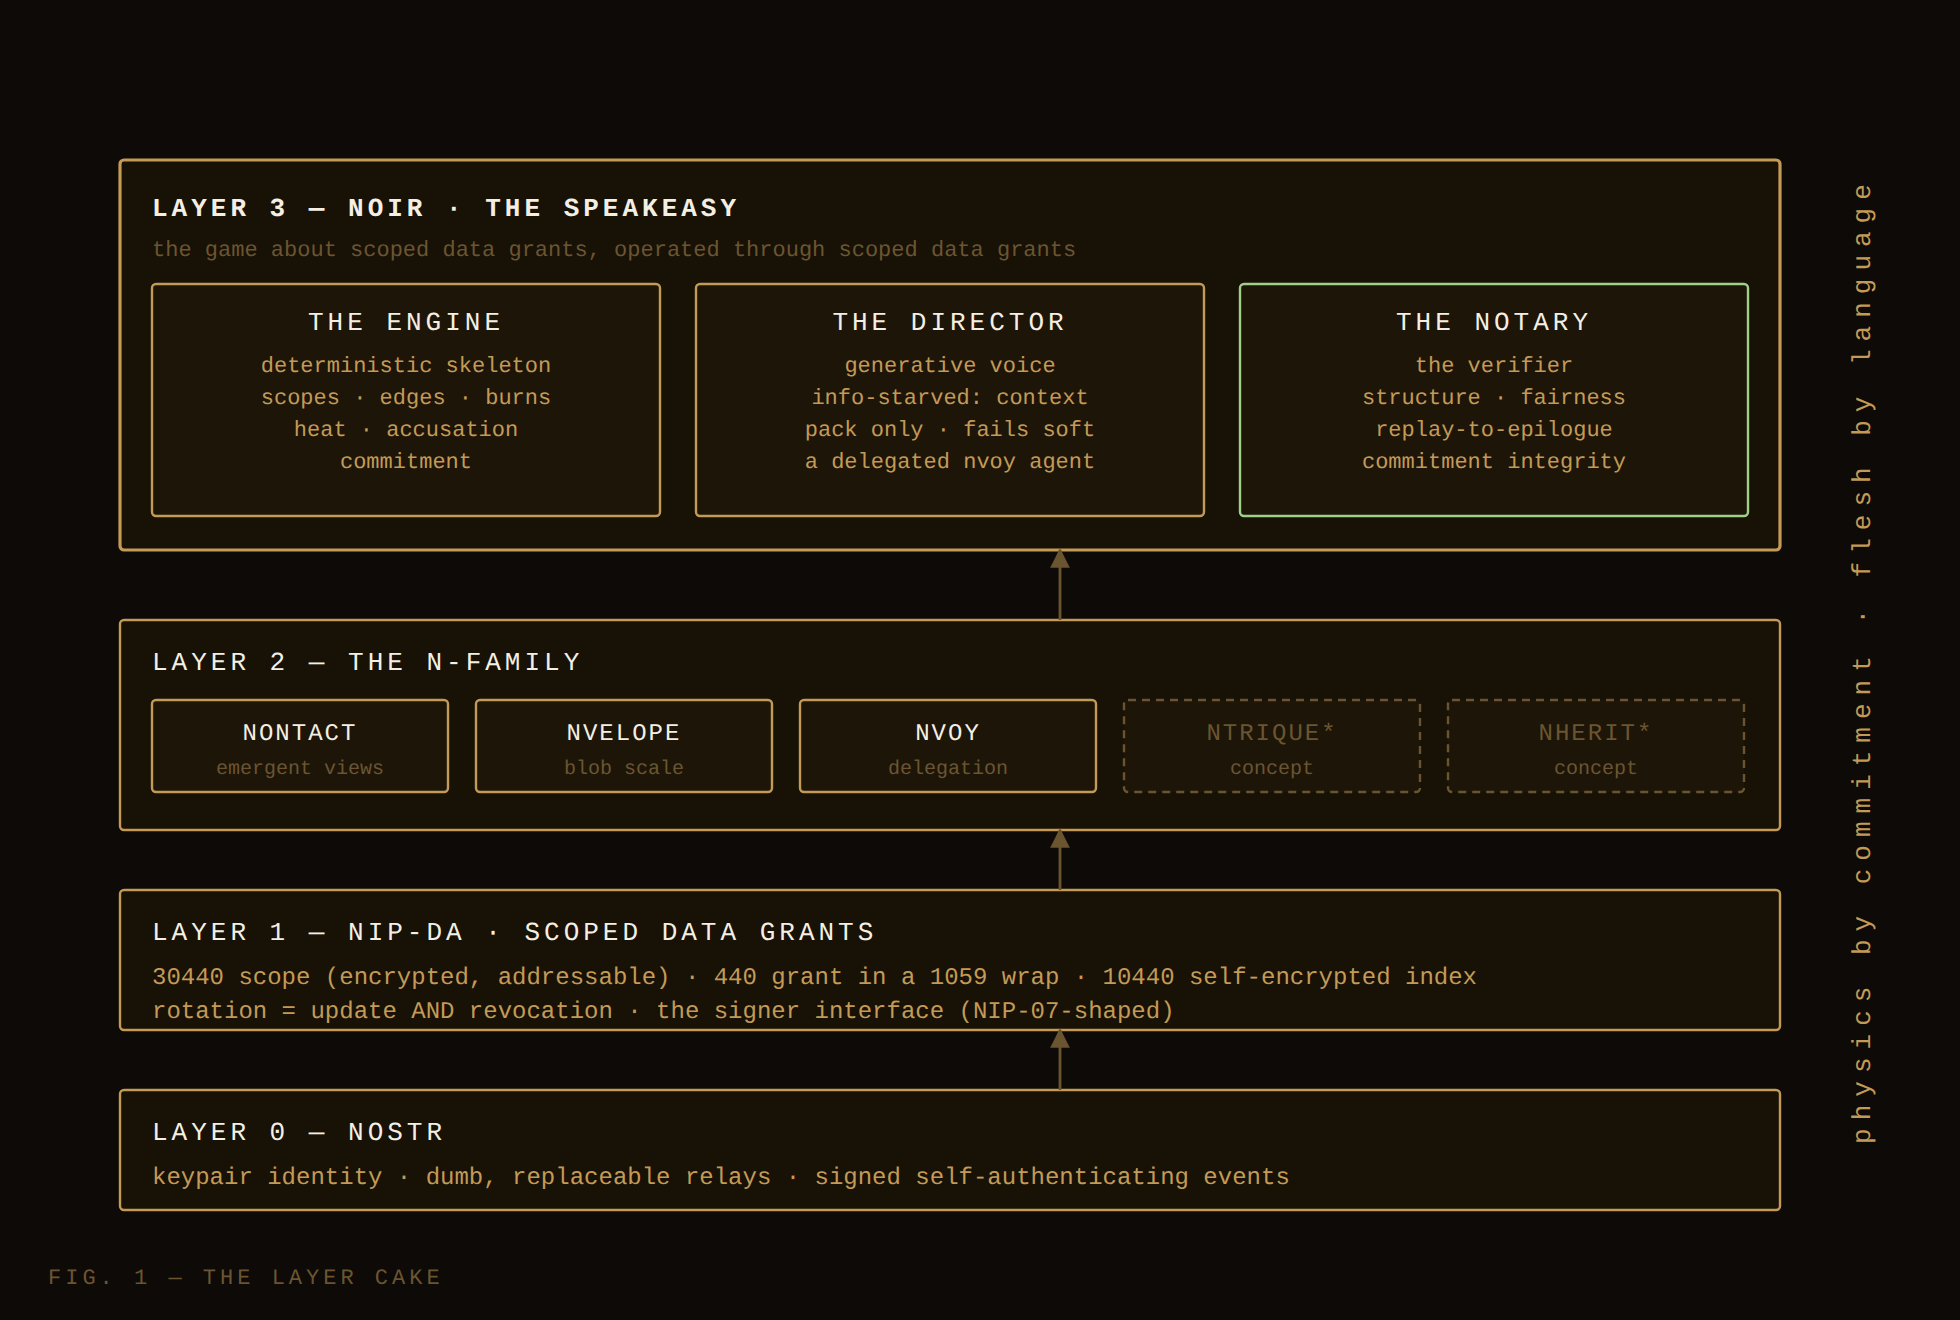
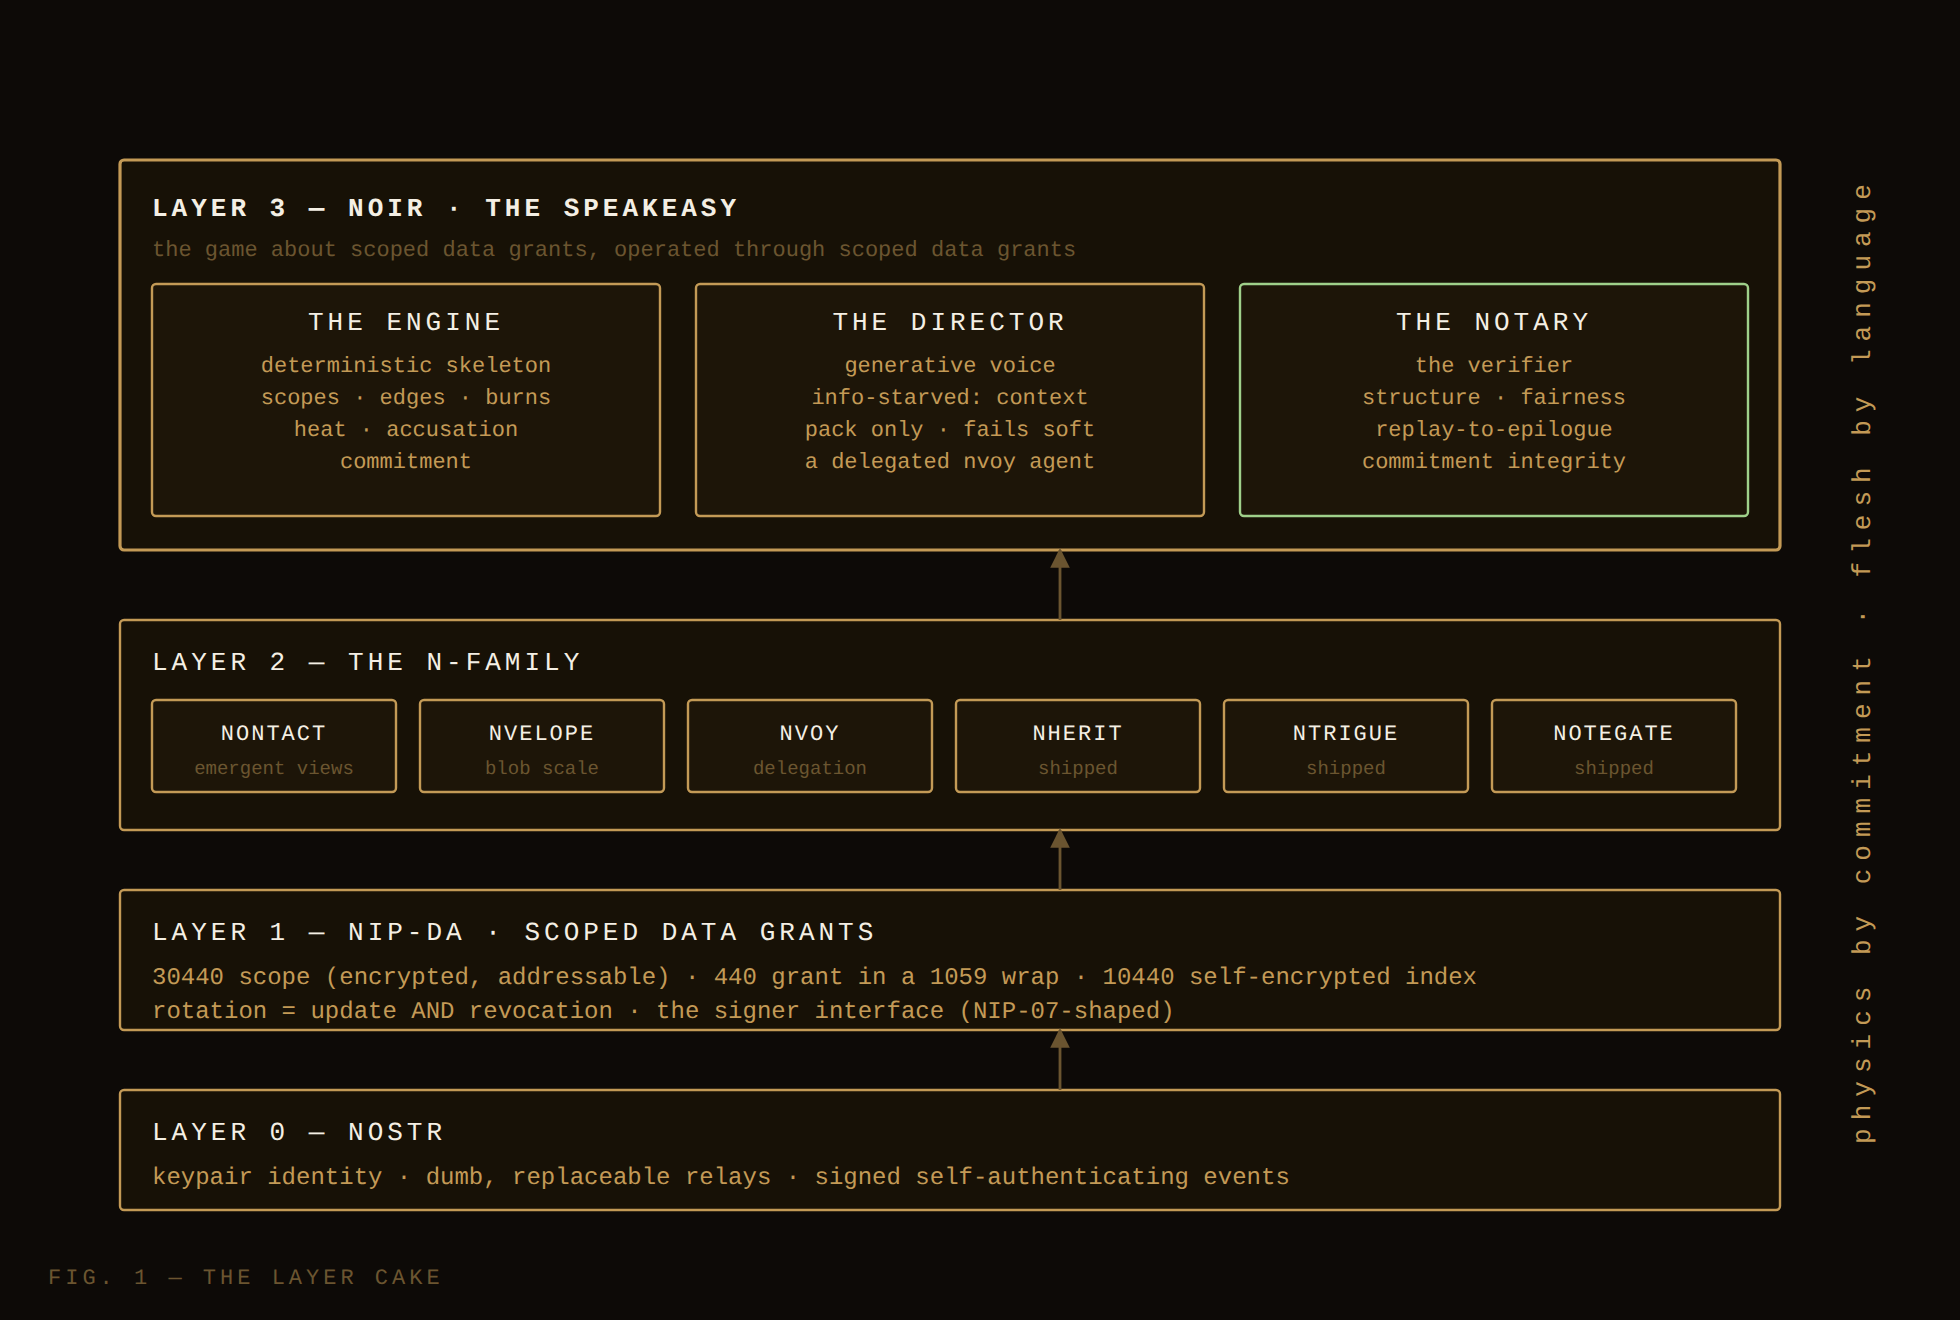
The whole family, by name and by link: Nherit, Ntrigue, and Notegate join the record
They were marked concept-stage because this record only asserts what
it can cite — and the citations exist: all three are shipped, public
repos. STACK.md's family table now names every member with its
repository link (and corrects the spelling: Ntrigue); the three
articles link every app inline and close with a full link rail; the
HTML renditions render links; and Fig. 1's layer cake seats all six
siblings as equals. Their one-line descriptions are deliberately left
to be drawn from the repos themselves rather than guessed from names.

Claude-Session: https://claude.ai/code/session_01TVFmiiV2AJZkGfRUtkTSZU

Changed region(s): [[0.0934, 0.528, 0.4357, 0.5902], [0.5291, 0.528, 0.9026, 0.5902], [0.4668, 0.528, 0.498, 0.5902]]

diff --git a/docs/articles/protocol-as-fuel.html b/docs/articles/protocol-as-fuel.html
@@ -1,16 +1,17 @@
-<!doctype html><html><head><meta charset="utf-8"><title>Protocol as Fuel</title><style>body{font-family:Georgia,serif;max-width:680px;margin:40px auto;padding:0 20px;line-height:1.65;color:#1a1a1a}h1{font-size:30px;line-height:1.25}h2{font-size:22px;margin-top:1.6em}code{background:#f4f2ee;padding:1px 5px;border-radius:3px;font-size:0.9em}pre{background:#f4f2ee;padding:14px;border-radius:4px;overflow-x:auto}pre code{background:none;padding:0}hr{border:none;border-top:1px solid #ddd;margin:2em 0}em{color:#333}</style></head><body><h1>Protocol as Fuel</h1>
+<!doctype html><html><head><meta charset="utf-8"><title>Protocol as Fuel</title><style>body{font-family:Georgia,serif;max-width:680px;margin:40px auto;padding:0 20px;line-height:1.65;color:#1a1a1a}h1{font-size:30px;line-height:1.25}h2{font-size:22px;margin-top:1.6em}code{background:#f4f2ee;padding:1px 5px;border-radius:3px;font-size:0.9em}pre{background:#f4f2ee;padding:14px;border-radius:4px;overflow-x:auto}pre code{background:none;padding:0}a{color:#1a6a8a}hr{border:none;border-top:1px solid #ddd;margin:2em 0}em{color:#333}</style></head><body><h1>Protocol as Fuel</h1>
 <p><em>How one small nostr primitive — the scoped, revocable data grant — fueled a whole portfolio of applications, and what that says about building on protocols instead of platforms.</em></p>
 <hr>
-<p>Most software portfolios grow sideways: a company ships a product, then ships a second product, and the two share a login page and a billing system and not much else. This is a story about a portfolio that grew <em>upward</em> — five applications, each one standing on the same ~300-line protocol implementation, each one built because the layer below it hit a real wall.</p>
+<p>Most software portfolios grow sideways: a company ships a product, then ships a second product, and the two share a login page and a billing system and not much else. This is a story about a portfolio that grew <em>upward</em> — seven public repositories, each one standing on the same ~300-line protocol implementation, each one built because the layer below it hit a real wall.</p>
 <h2>The primitive</h2>
 <p>NIP-DA — Scoped Data Grants — adds one missing thing to nostr. Relays are excellent at broadcast and terrible at confidence: DMs are snapshots you can never update or retract, and anything more sophisticated usually reintroduces the server you were trying to escape. NIP-DA's answer is a <strong>scope</strong>: a publisher-owned, encrypted, addressable data set (kind 30440) whose key travels to each reader as a gift-wrapped <strong>grant</strong> (kind 440 inside 1059). The publisher keeps authorship forever; readers dereference the <em>current</em> version; and revocation is not an ACL edit — it is a <strong>key rotation</strong>. Re-encrypt, re-grant the survivors, done. The revoked party's key simply stops opening the current ciphertext.</p>
 <p>Two design choices made everything after possible:</p>
 <ul><li><strong>Honesty.</strong> A revoked reader keeps whatever plaintext they already read, and the protocol says so out loud. No pretend un-sharing.</li><li><strong>The signer interface.</strong> Every operation accepts either a raw key or a NIP-07-shaped signer object — so a web page can author scopes and issue grants under a user's real identity without the secret key ever entering the page. This one abstraction was designed in before it was needed. It was needed.</li></ul>
 <h2>The portfolio it fueled</h2>
-<p><strong>Nontact</strong> came first: the protocol repo plus a contact-card manager. Its insight is that an address book shouldn't be an app's database — it's an <em>emergent view</em>, the sum of what people currently grant you. Update your card once; every holder dereferences the new truth. Move, change numbers, remarry — one edit, everyone current, and anyone you drop simply stops seeing updates.</p>
-<p><strong>Nvelope</strong> pushed on scale and lifecycle: live document sharing where a shared file is a scope, revocation replaces expiring links, and recovery needs only your key. Blobs too large for an event ride encrypted on Blossom with the key delivered by grant — same wire, bigger cargo.</p>
-<p><strong>Nvoy</strong> made the leap that changed the trajectory: the grantee became <em>software</em>. Delegating data to an AI agent is the moment access control stops being about politeness and starts being about survival — and the OAuth world has the wrong shape for it. A bearer token delegates <em>access</em> into a system that keeps the data; Nvoy delegates <em>the data</em>, end-to-end encrypted to the agent's key, dereferenced live at run time, severable in one keystroke. Revocation surfaces to the agent as a clean <code>NVOY_GRANT_REVOKED</code> on its next read. Terms — purpose, expiry, no-persist — ride the grant and are enforced as <em>compliance, not cryptography</em>, disclosed honestly; the delegator's real lever is always rotation. The agent side mounts as an MCP server, so any MCP-speaking framework consumes delegated data with zero nostr knowledge.</p>
-<p><strong>Noir</strong> then asked the unreasonable question: can the primitive carry <em>everything</em>? A whole game — content, permissions, identity, agent management, feedback, even payment pointers — with no other trust system in the building? It can. Documents are scopes; discovery is a grant; betrayal is a rotation; the AI game master is an Nvoy agent whose entire authority is a revocable grant from its human master; playtest feedback travels back as scopes signed by the master's own key; and the newest step delivers entire <em>worlds</em> — a steampunk era as pure data — over the same wire, gated by a mechanical fairness prover before any of it may be played.</p>
+<p><strong><a href="https://github.com/JAFairweather/nontact">Nontact</a></strong> came first, alongside the <a href="https://github.com/JAFairweather/nostr-scoped-data-grants">protocol repo</a> itself: a contact-card manager. Its insight is that an address book shouldn't be an app's database — it's an <em>emergent view</em>, the sum of what people currently grant you. Update your card once; every holder dereferences the new truth. Move, change numbers, remarry — one edit, everyone current, and anyone you drop simply stops seeing updates.</p>
+<p><strong><a href="https://github.com/JAFairweather/nvelope">Nvelope</a></strong> pushed on scale and lifecycle: live document sharing where a shared file is a scope, revocation replaces expiring links, and recovery needs only your key. Blobs too large for an event ride encrypted on Blossom with the key delivered by grant — same wire, bigger cargo.</p>
+<p><strong><a href="https://github.com/JAFairweather/nvoy">Nvoy</a></strong> made the leap that changed the trajectory: the grantee became <em>software</em>. Delegating data to an AI agent is the moment access control stops being about politeness and starts being about survival — and the OAuth world has the wrong shape for it. A bearer token delegates <em>access</em> into a system that keeps the data; Nvoy delegates <em>the data</em>, end-to-end encrypted to the agent's key, dereferenced live at run time, severable in one keystroke. Revocation surfaces to the agent as a clean <code>NVOY_GRANT_REVOKED</code> on its next read. Terms — purpose, expiry, no-persist — ride the grant and are enforced as <em>compliance, not cryptography</em>, disclosed honestly; the delegator's real lever is always rotation. The agent side mounts as an MCP server, so any MCP-speaking framework consumes delegated data with zero nostr knowledge.</p>
+<p>The family kept growing on the same fuel — <strong><a href="https://github.com/JAFairweather/nherit">Nherit</a></strong>, <strong><a href="https://github.com/JAFairweather/ntrigue">Ntrigue</a></strong>, and <strong><a href="https://github.com/JAFairweather/notegate">Notegate</a></strong> are all shipped and public, each the same primitive wearing a different job.</p>
+<p><strong><a href="https://github.com/JAFairweather/noir">Noir</a></strong> (<a href="https://jafairweather.github.io/noir/client/">play it</a>) then asked the unreasonable question: can the primitive carry <em>everything</em>? A whole game — content, permissions, identity, agent management, feedback, even payment pointers — with no other trust system in the building? It can. Documents are scopes; discovery is a grant; betrayal is a rotation; the AI game master is an Nvoy agent whose entire authority is a revocable grant from its human master; playtest feedback travels back as scopes signed by the master's own key; and the newest step delivers entire <em>worlds</em> — a steampunk era as pure data — over the same wire, gated by a mechanical fairness prover before any of it may be played.</p>
 <h2>The pattern worth stealing</h2>
 <p>Nothing in this stack was speculative infrastructure. <strong>Each layer was pulled into existence by the layer above it hitting a wall.</strong> Contacts needed liveness; documents needed scale; agents needed severability; the game needed tables; tables needed delegation; generated worlds needed a notary. When a protocol is small enough to vendor as one file and honest enough to state its own limits, applications compose on it the way the applications' <em>features</em> usually compose inside a single product — except here, the portfolio's products interoperate with no adapters at all. Nvoy's console manages Noir's game master without one line of Noir-specific code, because "an agent holding a revocable grant" is the same object in both worlds.</p>
 <p>That's what protocol-as-fuel means. Not a platform with an SDK and a partnerships team — a primitive with properties, and a family of applications that are each, in the end, the same three lines:</p>

diff --git a/docs/articles/cryptographic-boundary-conditions.html b/docs/articles/cryptographic-boundary-conditions.html
@@ -1,8 +1,8 @@
-<!doctype html><html><head><meta charset="utf-8"><title>Cryptographic Boundary Conditions for World Models</title><style>body{font-family:Georgia,serif;max-width:680px;margin:40px auto;padding:0 20px;line-height:1.65;color:#1a1a1a}h1{font-size:30px;line-height:1.25}h2{font-size:22px;margin-top:1.6em}code{background:#f4f2ee;padding:1px 5px;border-radius:3px;font-size:0.9em}pre{background:#f4f2ee;padding:14px;border-radius:4px;overflow-x:auto}pre code{background:none;padding:0}hr{border:none;border-top:1px solid #ddd;margin:2em 0}em{color:#333}</style></head><body><h1>Cryptographic Boundary Conditions for World Models</h1>
+<!doctype html><html><head><meta charset="utf-8"><title>Cryptographic Boundary Conditions for World Models</title><style>body{font-family:Georgia,serif;max-width:680px;margin:40px auto;padding:0 20px;line-height:1.65;color:#1a1a1a}h1{font-size:30px;line-height:1.25}h2{font-size:22px;margin-top:1.6em}code{background:#f4f2ee;padding:1px 5px;border-radius:3px;font-size:0.9em}pre{background:#f4f2ee;padding:14px;border-radius:4px;overflow-x:auto}pre code{background:none;padding:0}a{color:#1a6a8a}hr{border:none;border-top:1px solid #ddd;margin:2em 0}em{color:#333}</style></head><body><h1>Cryptographic Boundary Conditions for World Models</h1>
 <p><em>How to let a language model build worlds without letting it cheat: hard constraints imposed as committed skeleton, generative freedom everywhere in between.</em></p>
 <hr>
 <p>There is a problem waiting at the intersection of generative AI and games, and it is not hallucination. It is <em>authority</em>. The moment a language model narrates an interactive world, it holds two jobs that must never be held by the same untrusted party: it describes the world, and it adjudicates it. A model that knows the mystery's solution will leak it — in vocabulary, in pacing, in which door it lingers on. A model that decides outcomes on the fly cannot be fair, because fairness is a property of <em>commitments kept</em>, and an improviser commits to nothing. Ask any tabletop player about a GM who fudges dice.</p>
-<p>The usual fixes are prompt-shaped: "never reveal the culprit." Prompt promises are policy, and policy begs. We built something harder, in a playable mystery game called Noir, and the principle generalizes to any generative world model:</p>
+<p>The usual fixes are prompt-shaped: "never reveal the culprit." Prompt promises are policy, and policy begs. We built something harder, in a playable mystery game called <a href="https://github.com/JAFairweather/noir">Noir</a>, and the principle generalizes to any generative world model:</p>
 <p><strong>Impose the physics cryptographically. Free the flesh linguistically. And put a mechanical notary at the door between them.</strong></p>
 <h2>Splitting the world</h2>
 <p>A Noir case is two artifacts with different epistemic status.</p>
@@ -14,9 +14,11 @@
 <p>Pass, and the transcript's first line tells the player so, hash prefix included. Fail, and there is no deal. Our test suite includes sabotaged worlds — a truncated proof line, a forged culprit — and proves the door stays shut.</p>
 <p>The consequence is an inversion of the trust model that we think is the whole future of generative content: <strong>once the door exists, the author's trustworthiness is irrelevant.</strong> Hand-written by a human, assembled from templates, or proposed end-to-end by a model hallucinating at temperature 1.0 — every world faces the same replay, the same clauses, the same seal. Generate freely; ratify mechanically. The author can be wrong. The deal cannot.</p>
 <h2>Worlds as delegated data</h2>
-<p>Because the physics is portable, the flesh becomes <em>cargo</em>. We just shipped the first proof: an entire era — a steampunk 2040 of dirigibles, digital newsprint, and steam velocipedes — authored as a few kilobytes of structured data (names, rooms, phrases, a registry of dead airships that doubles as a cipher, a voice), published as an encrypted scope under its author's cryptographic identity, and <em>granted</em> to the game's AI director over nostr using revocable data delegation (Nvoy). The director's next poll found a new world in its hands; the engine dressed its proven skeleton in it; the notary replayed it and sealed it; and the client offered it beside the built-in eras. A genre traveled the same wire as a contact card — and can be revoked the same way, by rotating a key.</p>
+<p>Because the physics is portable, the flesh becomes <em>cargo</em>. We just shipped the first proof: an entire era — a steampunk 2040 of dirigibles, digital newsprint, and steam velocipedes — authored as a few kilobytes of structured data (names, rooms, phrases, a registry of dead airships that doubles as a cipher, a voice), published as an encrypted scope under its author's cryptographic identity, and <em>granted</em> to the game's AI director over nostr using revocable data delegation (<a href="https://github.com/JAFairweather/nvoy">Nvoy</a>). The director's next poll found a new world in its hands; the engine dressed its proven skeleton in it; the notary replayed it and sealed it; and the client offered it beside the built-in eras. A genre traveled the same wire as a contact card — and can be revoked the same way, by rotating a key.</p>
 <p>The ladder from here is explicit. Rung two: new <em>archetypes</em> — new skeleton shapes, each obligated to bring its own fairness clauses to the notary. Rung three: the model proposes skeleton and flesh alike, and the notary replays, refuses, or seals. The constraint system never loosens as the generator gets stronger; that is the design's entire posture. Capability grows inside a fixed constitution.</p>
 <h2>Why this generalizes</h2>
 <p>Nothing above is mystery-specific. Any generative world model that must be <em>fair</em> — an economy, a competitive scenario generator, an education simulator, a procedurally-dealt tournament — decomposes the same way:</p>
 <ul><li><strong>Commit</strong> the consequential structure before exposure, under a salted hash the audience holds from the start.</li><li><strong>Starve</strong> the generative layer: give it only what the audience has legitimately seen. Ignorance is cheaper than alignment and fails louder.</li><li><strong>Notarize</strong> every candidate world with proofs that replay the actual rules, not lint that approximates them.</li><li><strong>Deliver</strong> worlds as signed, revocable data, so authorship carries identity and distribution carries consent.</li></ul>
-<p>Boundary conditions in physics don't tell the fluid where to swirl — they tell it where the walls are, and the turbulence between the walls is where all the beauty happens. That is the right relationship between cryptography and creativity in generative systems: the model gets the turbulence. The walls get the math.</p></body></html>
+<p>Boundary conditions in physics don't tell the fluid where to swirl — they tell it where the walls are, and the turbulence between the walls is where all the beauty happens. That is the right relationship between cryptography and creativity in generative systems: the model gets the turbulence. The walls get the math.</p>
+<hr>
+<p><em>Working code, all public: <a href="https://github.com/JAFairweather/noir">Noir</a> (<a href="https://jafairweather.github.io/noir/client/">play it</a>), <a href="https://github.com/JAFairweather/nvoy">Nvoy</a>, and <a href="https://github.com/JAFairweather/nostr-scoped-data-grants">the NIP-DA protocol</a>.</em></p></body></html>

diff --git a/docs/articles/noir-architecture.html b/docs/articles/noir-architecture.html
@@ -1,11 +1,11 @@
-<!doctype html><html><head><meta charset="utf-8"><title>Noir: An Architecture</title><style>body{font-family:Georgia,serif;max-width:680px;margin:40px auto;padding:0 20px;line-height:1.65;color:#1a1a1a}h1{font-size:30px;line-height:1.25}h2{font-size:22px;margin-top:1.6em}code{background:#f4f2ee;padding:1px 5px;border-radius:3px;font-size:0.9em}pre{background:#f4f2ee;padding:14px;border-radius:4px;overflow-x:auto}pre code{background:none;padding:0}hr{border:none;border-top:1px solid #ddd;margin:2em 0}em{color:#333}</style></head><body><h1>Noir: An Architecture</h1>
+<!doctype html><html><head><meta charset="utf-8"><title>Noir: An Architecture</title><style>body{font-family:Georgia,serif;max-width:680px;margin:40px auto;padding:0 20px;line-height:1.65;color:#1a1a1a}h1{font-size:30px;line-height:1.25}h2{font-size:22px;margin-top:1.6em}code{background:#f4f2ee;padding:1px 5px;border-radius:3px;font-size:0.9em}pre{background:#f4f2ee;padding:14px;border-radius:4px;overflow-x:auto}pre code{background:none;padding:0}a{color:#1a6a8a}hr{border:none;border-top:1px solid #ddd;margin:2em 0}em{color:#333}</style></head><body><h1>Noir: An Architecture</h1>
 <p><em>How a mystery game became the proving ground for an entire protocol stack — and what's genuinely new in it.</em></p>
 <hr>
 <p>Noir looks like a game. A typewriter drum turns in a dark room; ink draws a street in Berlin or a mooring field in a steampunk 2040; a red dot moves along a map while a hard-boiled narrator deals you documents one earned page at a time. You ask questions in plain language. You accuse someone. You are right or you are wrong, once.</p>
 <p>Under the typewriter, though, there is no game server, no accounts database, no permission system, and no trust in the narrator. Every one of those absences is the point. Noir is the flagship demonstration of a protocol stack for <strong>scoped, revocable data sharing over nostr</strong> (NIP-DA), and its design rule is one sentence: <em>the game about scoped data grants is operated through scoped data grants.</em></p>
 <h2>The stack it stands on</h2>
 <p>Four layers, each honest about what it adds (Fig. 1):</p>
-<ul><li><strong>nostr</strong> — identity is a keypair, transport is dumb relays, data is signed events.</li><li><strong>NIP-DA (Scoped Data Grants)</strong> — the missing primitive: a publisher-owned, encrypted, addressable data set whose readership the publisher can change at any moment, including to zero. Revocation is a key rotation, not a policy (Figs. 2–3).</li><li><strong>The N-family</strong> — Nontact (contact cards as an emergent view), Nvelope (live documents, revocation instead of expiring links), Nvoy (delegation of data to autonomous agents, with honest terms and a ledger console).</li><li><strong>Noir</strong> — everything at once, load-bearing, in public.</li></ul>
+<ul><li><strong>nostr</strong> — identity is a keypair, transport is dumb relays, data is signed events.</li><li><strong>NIP-DA (Scoped Data Grants)</strong> — the missing primitive: a publisher-owned, encrypted, addressable data set whose readership the publisher can change at any moment, including to zero. Revocation is a key rotation, not a policy (Figs. 2–3).</li><li><strong>The N-family</strong> — <a href="https://github.com/JAFairweather/nontact">Nontact</a> (contact cards as an emergent view), <a href="https://github.com/JAFairweather/nvelope">Nvelope</a> (live documents, revocation instead of expiring links), <a href="https://github.com/JAFairweather/nvoy">Nvoy</a> (delegation of data to autonomous agents, with honest terms and a ledger console), plus <a href="https://github.com/JAFairweather/nherit">Nherit</a>, <a href="https://github.com/JAFairweather/ntrigue">Ntrigue</a>, and <a href="https://github.com/JAFairweather/notegate">Notegate</a> — all shipped, all public, all the same primitive.</li><li><strong>Noir</strong> — everything at once, load-bearing, in public.</li></ul>
 <h2>Protocol as game mechanics</h2>
 <p>The inversion that makes Noir interesting is that the protocol's semantics <em>are</em> the game's rules, not a metaphor for them:</p>
 <ul><li>A document you've earned is a kind-30440 scope granted to your key. "NEW INTEL" is literally a gift wrap arriving.</li><li>Your case notebook is your kind-10440 grant index — self-encrypted, recoverable on any device from your nsec alone.</li><li>A <strong>burned contact</strong> is a scope rotated past you. The protocol's honest caveat — a revoked party keeps what it already read — becomes dramatic stakes: <em>a burned source stays legible exactly as far as you already read. Nothing in this city is yours forever.</em></li><li>The <strong>tradecraft view</strong> shows you your own session as a relay observer sees it: ciphertext, wrapped grants under ephemeral keys, nothing else. The privacy claim is a toggle you can check.</li></ul>
@@ -25,4 +25,6 @@
 <p>That is the ladder (Fig. 8): worlds as data today; new mystery archetypes next, each adding its own fairness clauses to the Notary; and eventually the Director proposing whole worlds itself — generate freely, ratify mechanically. The author can be wrong. The deal cannot.</p>
 <h2>What's actually novel here</h2>
 <ul><li><strong>Revocation with feelings.</strong> Key-rotation semantics taught through burned informants, not documentation.</li><li><strong>A provably fair narrator.</strong> Commitment-before-deal plus mechanical replay: you don't trust the author, you check the proof.</li><li><strong>An AI with scoped ignorance.</strong> The Director's safety is not a system prompt promise; it's an information architecture. It cannot reveal what it has never held.</li><li><strong>Management-plane-as-protocol.</strong> Hiring, tuning, firing, and paying a game master are all grants, rotations, and public profile reads.</li><li><strong>Worlds as delegated data.</strong> A genre travels over the same wire as a contact card, with the same revocability.</li></ul>
-<p>Everything above is running code with a 151-check offline test suite — the in-memory relay satisfies the same interface as the live ones, so the whole stack proves itself with zero network. Which is, in the end, the whole aesthetic: a small dark room on the open internet where nothing asks for your trust, because everything can show its work.</p></body></html>
+<p>Everything above is running code with a 151-check offline test suite — the in-memory relay satisfies the same interface as the live ones, so the whole stack proves itself with zero network. Which is, in the end, the whole aesthetic: a small dark room on the open internet where nothing asks for your trust, because everything can show its work.</p>
+<hr>
+<p><em>The stack, all public: <a href="https://github.com/JAFairweather/nostr-scoped-data-grants">the NIP-DA protocol</a> · <a href="https://github.com/JAFairweather/nontact">Nontact</a> · <a href="https://github.com/JAFairweather/nvelope">Nvelope</a> · <a href="https://github.com/JAFairweather/nvoy">Nvoy</a> · <a href="https://github.com/JAFairweather/nherit">Nherit</a> · <a href="https://github.com/JAFairweather/ntrigue">Ntrigue</a> · <a href="https://github.com/JAFairweather/notegate">Notegate</a> · <a href="https://github.com/JAFairweather/noir">Noir</a> — <a href="https://jafairweather.github.io/noir/client/">play Noir here</a>.</em></p></body></html>

diff --git a/docs/articles/noir-architecture.md b/docs/articles/noir-architecture.md
@@ -28,10 +28,16 @@ Four layers, each honest about what it adds (Fig. 1):
   publisher-owned, encrypted, addressable data set whose readership the
   publisher can change at any moment, including to zero. Revocation is
   a key rotation, not a policy (Figs. 2–3).
-- **The N-family** — Nontact (contact cards as an emergent view),
-  Nvelope (live documents, revocation instead of expiring links), Nvoy
-  (delegation of data to autonomous agents, with honest terms and a
-  ledger console).
+- **The N-family** — [Nontact](https://github.com/JAFairweather/nontact)
+  (contact cards as an emergent view),
+  [Nvelope](https://github.com/JAFairweather/nvelope) (live documents,
+  revocation instead of expiring links),
+  [Nvoy](https://github.com/JAFairweather/nvoy) (delegation of data to
+  autonomous agents, with honest terms and a ledger console), plus
+  [Nherit](https://github.com/JAFairweather/nherit),
+  [Ntrigue](https://github.com/JAFairweather/ntrigue), and
+  [Notegate](https://github.com/JAFairweather/notegate) — all shipped,
+  all public, all the same primitive.
 - **Noir** — everything at once, load-bearing, in public.
 
 ## Protocol as game mechanics
@@ -151,3 +157,16 @@ the in-memory relay satisfies the same interface as the live ones, so
 the whole stack proves itself with zero network. Which is, in the end,
 the whole aesthetic: a small dark room on the open internet where
 nothing asks for your trust, because everything can show its work.
+
+---
+
+*The stack, all public:
+[the NIP-DA protocol](https://github.com/JAFairweather/nostr-scoped-data-grants) ·
+[Nontact](https://github.com/JAFairweather/nontact) ·
+[Nvelope](https://github.com/JAFairweather/nvelope) ·
+[Nvoy](https://github.com/JAFairweather/nvoy) ·
+[Nherit](https://github.com/JAFairweather/nherit) ·
+[Ntrigue](https://github.com/JAFairweather/ntrigue) ·
+[Notegate](https://github.com/JAFairweather/notegate) ·
+[Noir](https://github.com/JAFairweather/noir) —
+[play Noir here](https://jafairweather.github.io/noir/client/).*

diff --git a/docs/articles/protocol-as-fuel.md b/docs/articles/protocol-as-fuel.md
@@ -9,7 +9,7 @@ building on protocols instead of platforms.*
 Most software portfolios grow sideways: a company ships a product,
 then ships a second product, and the two share a login page and a
 billing system and not much else. This is a story about a portfolio
-that grew *upward* — five applications, each one standing on the same
+that grew *upward* — seven public repositories, each one standing on the same
 ~300-line protocol implementation, each one built because the layer
 below it hit a real wall.
 
@@ -39,20 +39,22 @@ Two design choices made everything after possible:
 
 ## The portfolio it fueled
 
-**Nontact** came first: the protocol repo plus a contact-card manager.
+**[Nontact](https://github.com/JAFairweather/nontact)** came first,
+alongside the [protocol repo](https://github.com/JAFairweather/nostr-scoped-data-grants)
+itself: a contact-card manager.
 Its insight is that an address book shouldn't be an app's database —
 it's an *emergent view*, the sum of what people currently grant you.
 Update your card once; every holder dereferences the new truth. Move,
 change numbers, remarry — one edit, everyone current, and anyone you
 drop simply stops seeing updates.
 
-**Nvelope** pushed on scale and lifecycle: live document sharing where
+**[Nvelope](https://github.com/JAFairweather/nvelope)** pushed on scale and lifecycle: live document sharing where
 a shared file is a scope, revocation replaces expiring links, and
 recovery needs only your key. Blobs too large for an event ride
 encrypted on Blossom with the key delivered by grant — same wire,
 bigger cargo.
 
-**Nvoy** made the leap that changed the trajectory: the grantee became
+**[Nvoy](https://github.com/JAFairweather/nvoy)** made the leap that changed the trajectory: the grantee became
 *software*. Delegating data to an AI agent is the moment access control
 stops being about politeness and starts being about survival — and the
 OAuth world has the wrong shape for it. A bearer token delegates
@@ -66,7 +68,15 @@ always rotation. The agent side mounts as an MCP server, so any
 MCP-speaking framework consumes delegated data with zero nostr
 knowledge.
 
-**Noir** then asked the unreasonable question: can the primitive carry
+The family kept growing on the same fuel —
+**[Nherit](https://github.com/JAFairweather/nherit)**,
+**[Ntrigue](https://github.com/JAFairweather/ntrigue)**, and
+**[Notegate](https://github.com/JAFairweather/notegate)** are all
+shipped and public, each the same primitive wearing a different job.
+
+**[Noir](https://github.com/JAFairweather/noir)**
+([play it](https://jafairweather.github.io/noir/client/)) then asked
+the unreasonable question: can the primitive carry
 *everything*? A whole game — content, permissions, identity, agent
 management, feedback, even payment pointers — with no other trust
 system in the building? It can. Documents are scopes; discovery is a

diff --git a/docs/STACK.md b/docs/STACK.md
@@ -37,7 +37,7 @@ The stack is four layers, each one honest about what it adds:
 |---|---|---|
 | 0 | **nostr** | Identity as keypairs; transport as dumb, replaceable relays; events as signed, self-authenticating data. |
 | 1 | **NIP-DA — Scoped Data Grants** | Private, *live*, *revocable* data sharing over public relays. The publisher keeps authorship; grantees dereference the current version; revocation is a key rotation, not a policy. |
-| 2 | **The N-family** (Nontact, Nvelope, Nvoy, …) | Each application stresses one protocol property: emergent views, blob-scale sharing, delegation to autonomous agents. |
+| 2 | **The N-family** (Nontact, Nvelope, Nvoy, Nherit, Ntrigue, Notegate) | Each application stresses one protocol property: emergent views, blob-scale sharing, delegation to autonomous agents. |
 | 3 | **Noir** | A playable mystery game in which *the protocol is the game*: documents are scopes, discovery is a grant, betrayal is a rotation, the game master is a delegated agent, feedback is a grant from the author's own key — and every generated world must pass a cryptographic-mechanical **Notary** before it may be dealt. |
 
 The through-line, stated once: **physics by commitment, flesh by
@@ -140,14 +140,18 @@ feedback loop possible (§4.8) — it was designed in before it was needed.
 Naming convention: **N + function.** Each sibling exists to stress a
 different property of the same primitive.
 
+All shipped, all public, all on the same vendored primitive:
+
 | App | Repo | One-line | Protocol property it stresses |
 |---|---|---|---|
-| **Nontact** | `nostr-scoped-data-grants` | The protocol repo plus a live contact-card manager. | *Emergent views*: an "address book" is not an app database — it is simply `addressBook()`, the sum of what people currently grant you. Update your card once; every holder dereferences the new truth. |
-| **Nvelope** | `nvelope` | Live document sharing. | *Blob scale + lifecycle*: revocation instead of expiring links; one-key recovery; the encrypted-blob pattern (Blossom-hosted ciphertext, key delivered by grant) for payloads too large for an event. |
-| **Nvoy** | `nvoy` | Scoped, revocable data delegation **to agentic workflows**; agent side mounts as an MCP server. | *Delegation*: the grantee is software. Adds the **nvoy terms extension** and the delegator **console** (ledger: "exactly what data do my agents hold right now, under what terms — show me the revocations"). |
-| **Noir** | `noir` | The spycraft mystery game / speakeasy. | *Everything at once*: content distribution, access revocation, agent delegation, identity, feedback, and payment pointers are all the same primitive. |
-| **Ntrique** | — | Named in the family; concept stage (no public repo to cite at time of writing). | — |
-| **Nherit** | — | Named in the family; concept stage (no public repo to cite at time of writing). | — |
+| **NIP-DA** (protocol) | [nostr-scoped-data-grants](https://github.com/JAFairweather/nostr-scoped-data-grants) | The protocol: spec + reference implementation. | The primitive itself. |
+| **Nontact** | [nontact](https://github.com/JAFairweather/nontact) | The live contact-card manager. | *Emergent views*: an "address book" is not an app database — it is simply `addressBook()`, the sum of what people currently grant you. Update your card once; every holder dereferences the new truth. |
+| **Nvelope** | [nvelope](https://github.com/JAFairweather/nvelope) | Live document sharing. | *Blob scale + lifecycle*: revocation instead of expiring links; one-key recovery; the encrypted-blob pattern (Blossom-hosted ciphertext, key delivered by grant) for payloads too large for an event. |
+| **Nvoy** | [nvoy](https://github.com/JAFairweather/nvoy) | Scoped, revocable data delegation **to agentic workflows**; agent side mounts as an MCP server. | *Delegation*: the grantee is software. Adds the **nvoy terms extension** and the delegator **console** (ledger: "exactly what data do my agents hold right now, under what terms — show me the revocations"). |
+| **Nherit** | [nherit](https://github.com/JAFairweather/nherit) | Shipped and functional. | *(One-liner to be drawn from the repo itself — this document only asserts what it can cite.)* |
+| **Ntrigue** | [ntrigue](https://github.com/JAFairweather/ntrigue) | Shipped and functional; in active development. | *(One-liner to be drawn from the repo itself.)* |
+| **Notegate** | [notegate](https://github.com/JAFairweather/notegate) | Shipped and functional. | *(One-liner to be drawn from the repo itself.)* |
+| **Noir** | [noir](https://github.com/JAFairweather/noir) · [play it](https://jafairweather.github.io/noir/client/) | The spycraft mystery game / speakeasy. | *Everything at once*: content distribution, access revocation, agent delegation, identity, feedback, and payment pointers are all the same primitive. |
 
 ### 3.1 Nvoy in one paragraph (because Noir leans on it hardest)
 

diff --git a/docs/articles/cryptographic-boundary-conditions.md b/docs/articles/cryptographic-boundary-conditions.md
@@ -18,7 +18,7 @@ nothing. Ask any tabletop player about a GM who fudges dice.
 
 The usual fixes are prompt-shaped: "never reveal the culprit." Prompt
 promises are policy, and policy begs. We built something harder, in a
-playable mystery game called Noir, and the principle generalizes to
+playable mystery game called [Noir](https://github.com/JAFairweather/noir), and the principle generalizes to
 any generative world model:
 
 **Impose the physics cryptographically. Free the flesh linguistically.
@@ -90,7 +90,7 @@ few kilobytes of structured data (names, rooms, phrases, a registry of
 dead airships that doubles as a cipher, a voice), published as an
 encrypted scope under its author's cryptographic identity, and
 *granted* to the game's AI director over nostr using revocable data
-delegation (Nvoy). The director's next poll found a new world in its
+delegation ([Nvoy](https://github.com/JAFairweather/nvoy)). The director's next poll found a new world in its
 hands; the engine dressed its proven skeleton in it; the notary
 replayed it and sealed it; and the client offered it beside the
 built-in eras. A genre traveled the same wire as a contact card — and
@@ -125,3 +125,10 @@ they tell it where the walls are, and the turbulence between the walls
 is where all the beauty happens. That is the right relationship
 between cryptography and creativity in generative systems: the model
 gets the turbulence. The walls get the math.
+
+---
+
+*Working code, all public: [Noir](https://github.com/JAFairweather/noir)
+([play it](https://jafairweather.github.io/noir/client/)),
+[Nvoy](https://github.com/JAFairweather/nvoy), and
+[the NIP-DA protocol](https://github.com/JAFairweather/nostr-scoped-data-grants).*